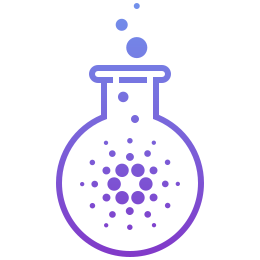
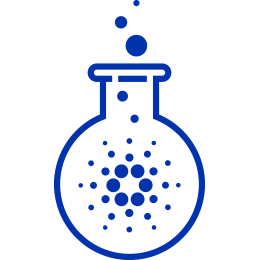
sort main hero, remove shelley imagery

diff --git a/src/pages/index.js b/src/pages/index.js
@@ -6,7 +6,7 @@ import Link from '@input-output-hk/front-end-core-components/components/Link'
 import Layout from '../components/Layout'
 import Container from '../components/Container'
 import IndexPageQuery from '../queries/IndexPageQuery'
-import ShelleyBackground from '../../resources/images/shelley-background.jpg'
+import TestnetBackground from '../../resources/images/logo.svg'
 import { TinyColor } from '@ctrl/tinycolor'
 
 const HeroContainer = styled(Container)`
@@ -14,8 +14,11 @@ const HeroContainer = styled(Container)`
 `
 
 const Hero = styled.div`
-  background-image: url(${ShelleyBackground});
-  background-size: cover;
+  overflow:hidden;
+  background:#335cbe linear-gradient(90deg, rgba(0,51,173,1) 0%, rgba(51,92,190,1) 100%);
+  background-image: url(${TestnetBackground});
+  background-size: 40%;
+  background-position: 75% 30%;
   background-repeat: no-repeat;
   position: relative;
 `
@@ -41,6 +44,9 @@ const HeroContent = styled.div`
   max-width: 60rem;
   position: relative;
   padding: 8rem 0 12rem;
+  h2, h3 {
+    color: ${({ theme }) => theme.palette.primary.main};
+  }
 `
 
 const HeroCTA = styled.div`

diff --git a/src/components/Header.js b/src/components/Header.js
@@ -68,7 +68,7 @@ const Column = styled(Box)`
 
 const Logo = styled(Column)`
   img {
-    width: 4rem;
+    width: 2.5rem;
     max-height: 4rem;
   }
 
